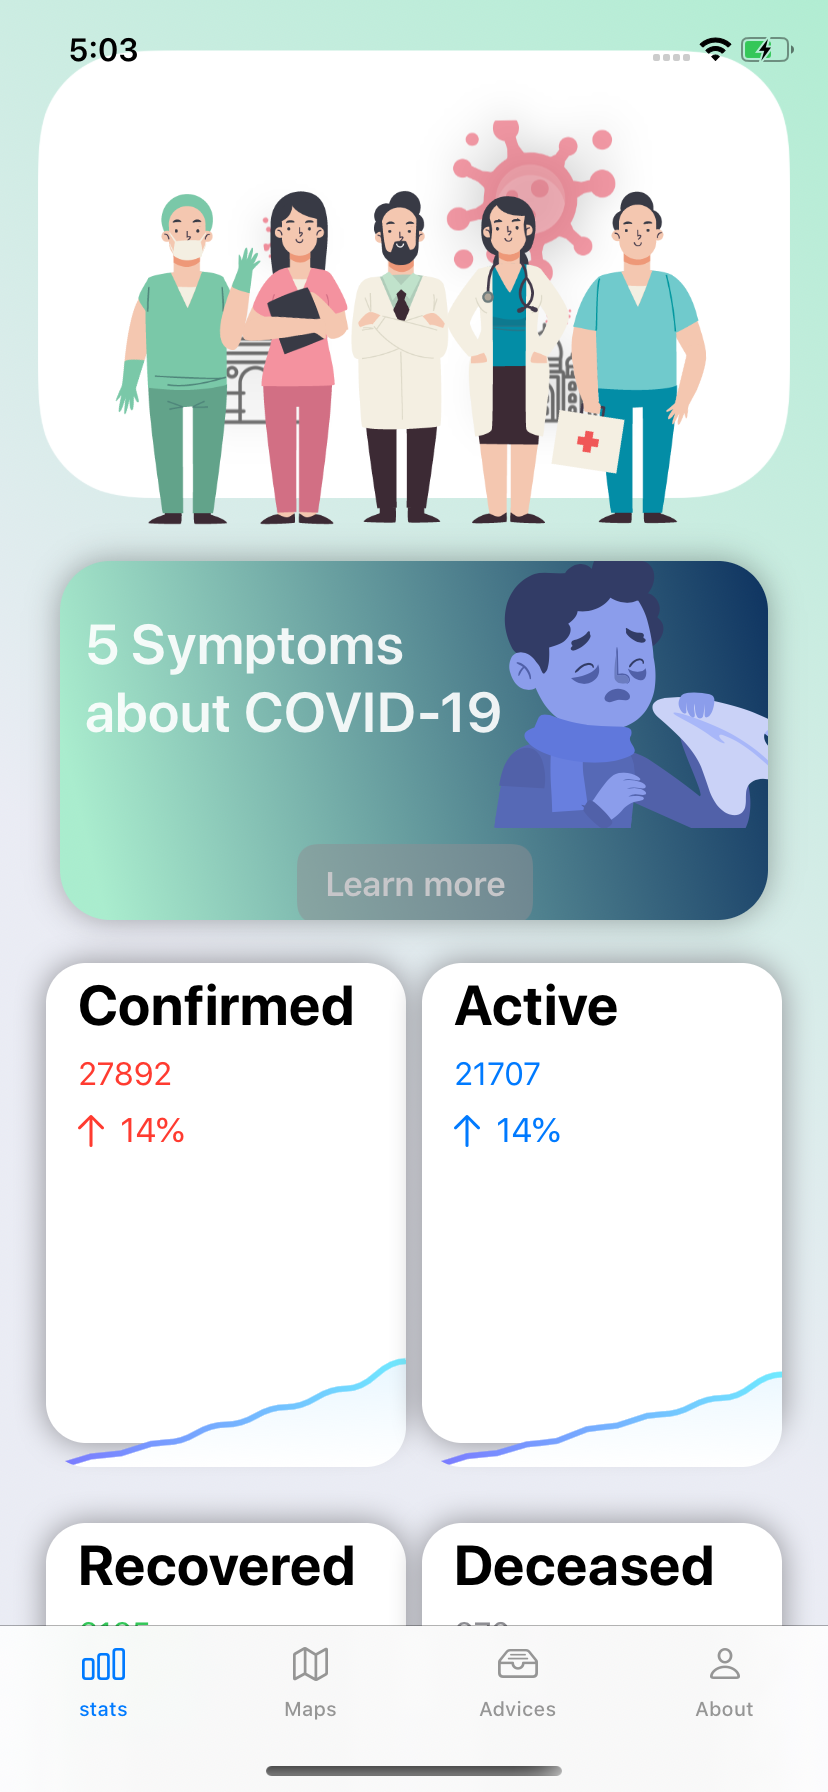
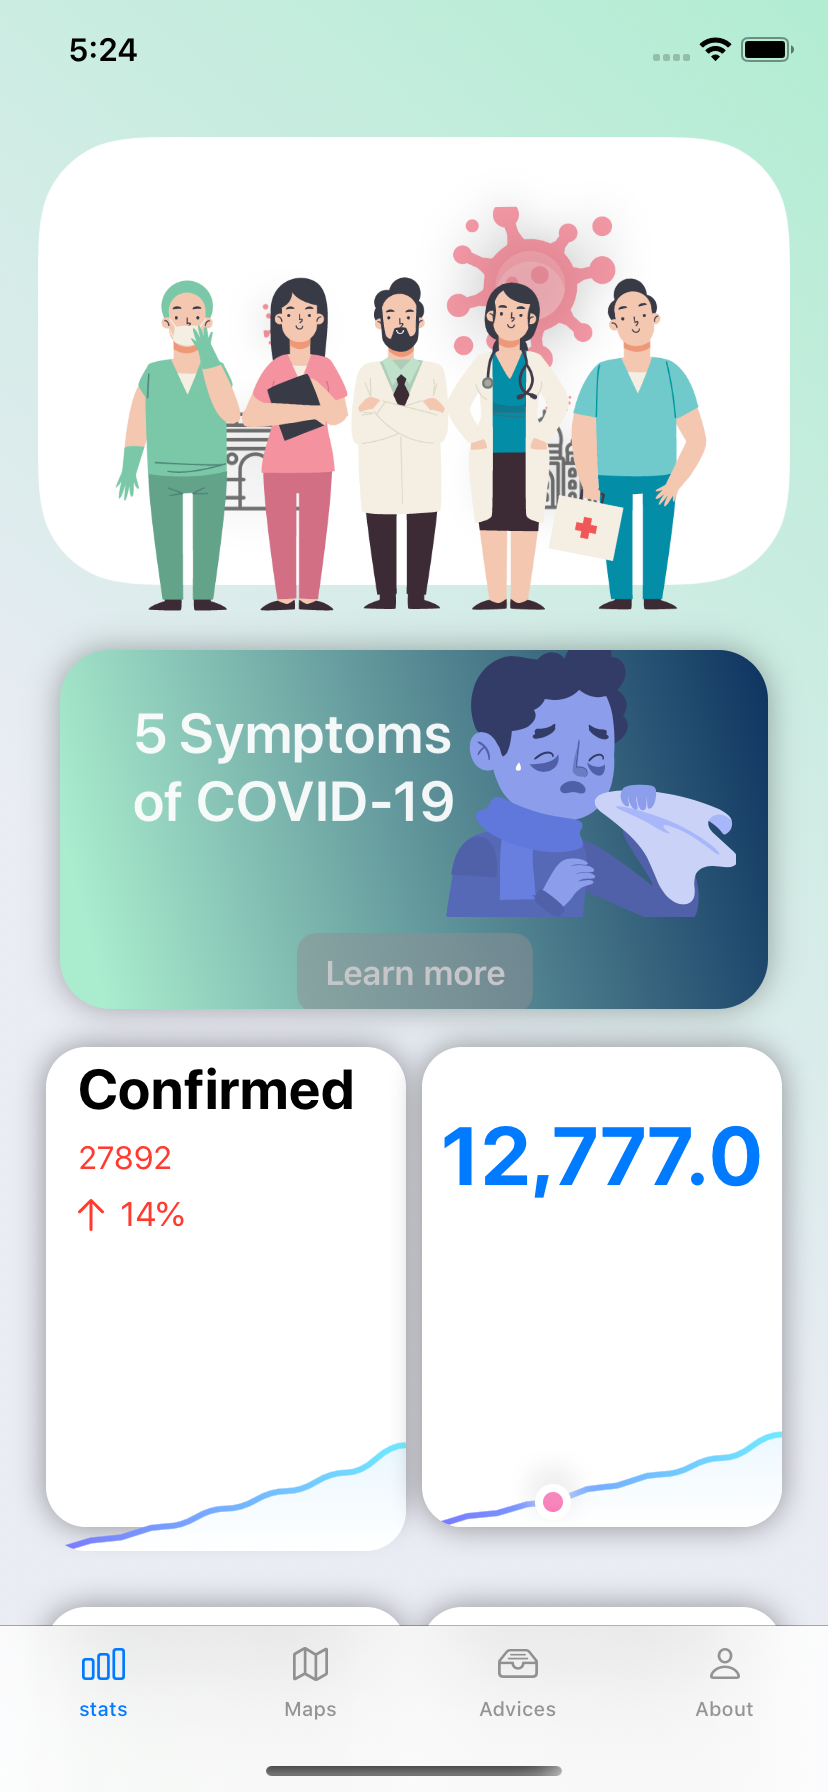
Added Screenshots

diff --git a/CovidTracker/Views/MainView.swift b/CovidTracker/Views/MainView.swift
@@ -39,7 +39,7 @@ struct MainView: View {
                 VStack {
                     
                         TopDashboard()
-                    SickCard(cardTitle: "5 Symptoms\nabout COVID-19",fWidth: UIScreen.main.bounds.width - 60,fHeight: UIScreen.main.bounds.height/5)
+                    SickCard(cardTitle: "5 Symptoms\nof COVID-19",fWidth: UIScreen.main.bounds.width - 60,fHeight: UIScreen.main.bounds.height/5)
                         
                         VStack{
                             
